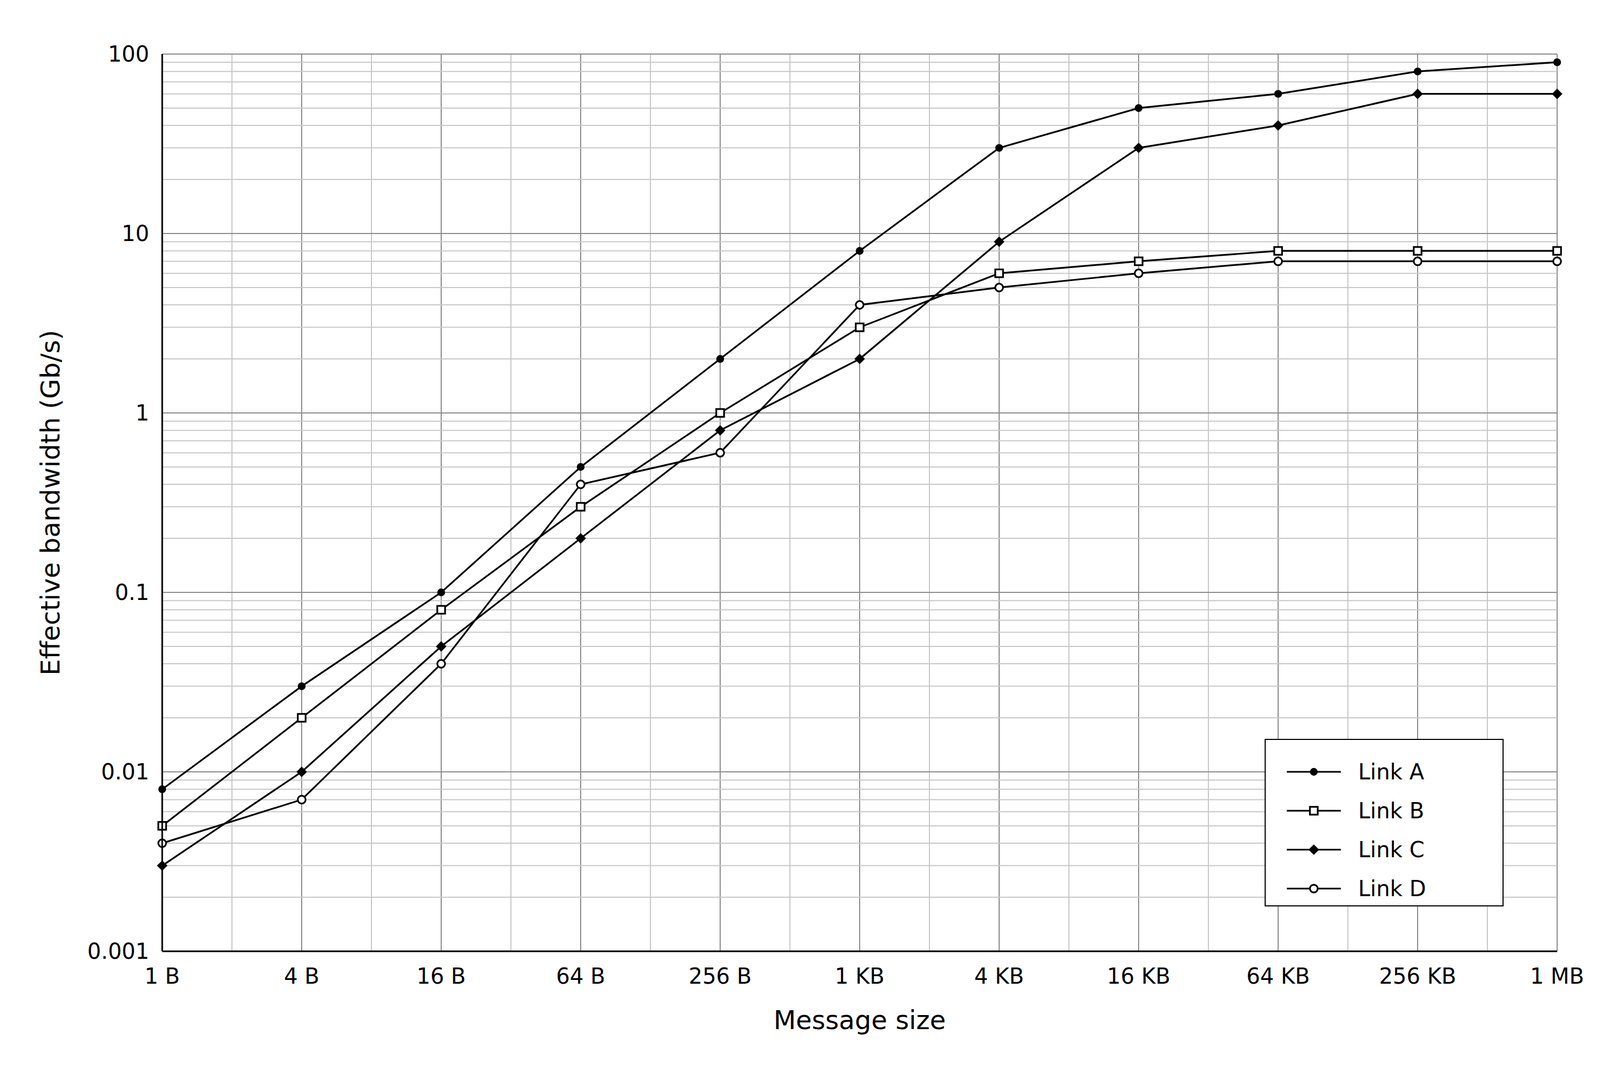
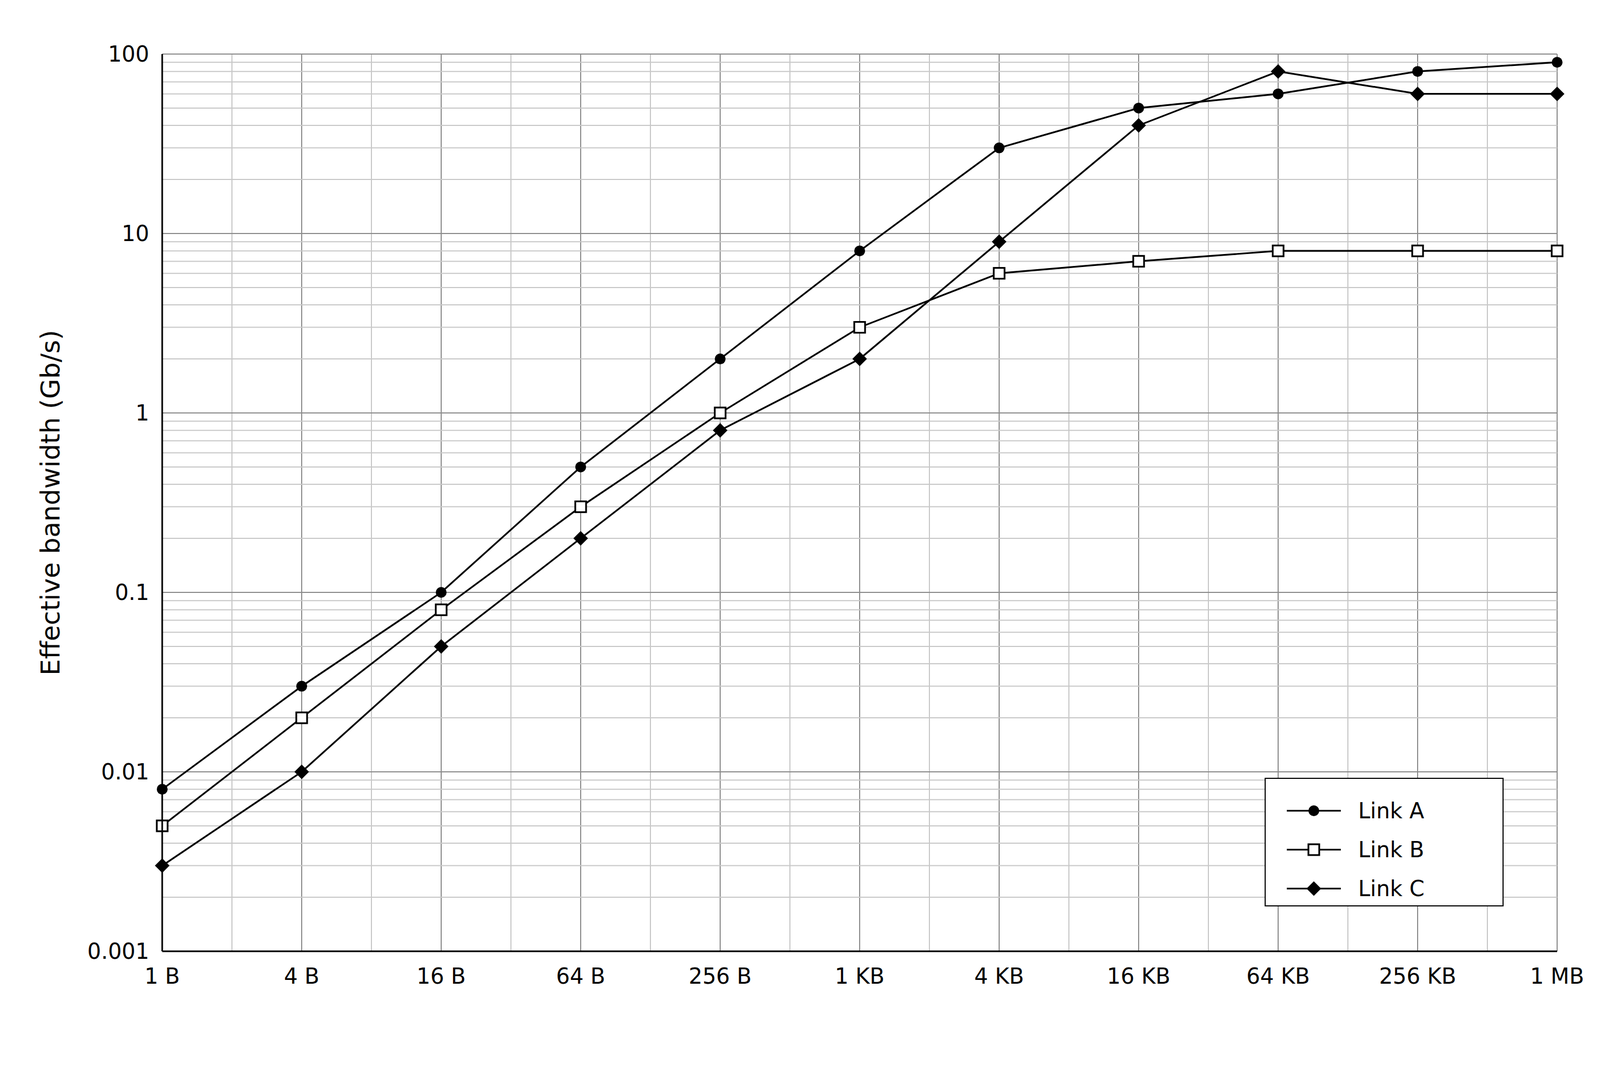
Current attempt = product ratio on the three-link figure (as run on the form); task.md, README, image.png
Claude-Session: https://claude.ai/code/session_018yCjiPTBxjoeQpEJrFdhZF

diff --git a/task.md b/task.md
@@ -1,20 +1,18 @@
-# Current attempt: 5 (four links, ratio of the largest 80 percent message size to the smallest)
+# Attempt 5: product of the two ratios (A/B) x (C/B), nine critical readings
 
-Status: NOT YET RUN.
+Status: RUN, PASS. Both models wrong (Block 1: 3.29, Block 2: 15.0). Log in feedback/006.md. Form filled to the submit button, not submitted. Figure unchanged since attempt 3. Prompt is attempt 4's
+hand-rewritten wording with only the second paragraph changed. GTFA 69.5.
 
-Instructions for the extension run:
+Why: attempt 4 (ratio A/B, six readings) was run twice on this figure. Run 1 (feedback/004.md): both
+models wrong. Run 2 with the humanised wording (feedback/005.md): Block 1 correct, Block 2 wrong. The
+wording is not the lever; each model misreads about one packed-band marker per run, so the number of
+critical readings is. Nine readings, seven in the packed bands, and a product that squares link B's
+slips: every single-marker slip in the table below moves the answer by at least 5 percent.
 
-1. Replace image.png on the form with this image.png. It has four links now.
-2. Replace the prompt on the form with the prompt under "## Step 4. Prompt", exactly.
-3. Wait for both blocks, log them as feedback/006.md in the usual layout. Both must be wrong. If
-   either is right, stop and report.
-4. Steps 7 to 11 will be written after both blocks fail. Do not press submit.
-
-Why attempt 5 exists: attempt 4 (archive/attempt-4.md) ran twice on the same figure and question.
-First run both models wrong, rerun with the reworded prompt one model right. Six critical readings
-give about even odds per run. This attempt keeps the question type, keeps links A and B unchanged,
-and adds a fourth link and a ranking, so the answer needs every link worked out and the readings
-that decide it go from six to ten.
+Attempts 1 to 3 were each solved by exactly one model (feedback/001 to 003). A four-link variant
+(largest to smallest 80 percent size, GTFA 21.6) was prepared in parallel and not run; it is in
+archive/attempt-5-four-links.md, with its figure generator values in that file. This attempt is the
+one on the Handshake form.
 
 | Field | Value |
 |---|---|
@@ -25,17 +23,29 @@ that decide it go from six to ten.
 | Reference material | N/A |
 | Publication venue | N/A |
 | Reference licence | N/A |
-| Image | image.png |
+| Image | image.png (unchanged from attempt 3) |
 
 ---
 
 ## Step 4. Prompt
 
-Image 1 is a log-log plot showing the effective bandwidth of four interconnect links, measured using a ping-pong microbenchmark, as a function of message size. The name of each link is indicated in the legend. Each measured data point is marked, and markers for the same link are connected by straight lines.
+Attempt 5, run on 2026-09-17. Second paragraph is the only change from the attempt 4 rewrite.
 
-Calculate the ratio of the largest "$80\%$ message size" among the four links to the smallest "$80\%$ message size" among them. Here, a link's "$80\%$ message size" is defined as the minimum message size at which the link achieves exactly $80\%$ of its asymptotic bandwidth.
+Image 1 is a log-log plot showing the effective bandwidth of three interconnect links, measured using a ping-pong microbenchmark, as a function of message size. The name of each link is indicated in the legend. Each measured data point is marked, and markers for the same link are connected by straight lines.
+
+Calculate two ratios: the ratio of the "$80\%$ message size" of Link A to the "$80\%$ message size" of Link B, and the ratio of the "$80\%$ message size" of Link C to the "$80\%$ message size" of Link B. Report the product of these two ratios. Here, a link's "$80\%$ message size" is defined as the minimum message size at which the link achieves exactly $80\%$ of its asymptotic bandwidth.
 
 Follow these rules: A link's asymptotic bandwidth is defined as the bandwidth observed at the largest message size shown on the graph. Since every marker is located at the intersection of two grid lines, the values at these intersections are to be read and treated as exact. Because the curve between two adjacent markers appears as a straight line segment on the logarithmic axes of the plot, perform linear interpolation based on the logarithms of the message size and the bandwidth. The message size on the horizontal axis doubles with each grid line crossed, and $1 \, \text{KB}$ is calculated as $1024 \, \text{B}$.
+
+The answer is a dimensionless ratio. Report your final answer as a 3 significant figure number without units. Any intermediate calculations should be carried out to 6 significant figures.
+
+### Attempt 4 prompt, hand-rewritten, run on 2026-09-17 (feedback/005.md)
+
+Image 1 is a log-log plot of the effective bandwidth of three interconnect links against message size, measured with a ping-pong microbenchmark. The links are named in the legend. Each measured point is drawn as a marker, and the markers of one link are joined by straight segments.
+
+Find the ratio of the $80$ percent message size of link A to the $80$ percent message size of link B. The $80$ percent message size of a link is the smallest message size at which the link delivers exactly $80$ percent of its asymptotic bandwidth.
+
+Use the following conventions. The asymptotic bandwidth of a link is its bandwidth at the largest message size on the plot. Every marker sits on a crossing of two gridlines, so take the reading of each marker at that crossing and treat the reading as exact. Between two neighbouring markers the curve is the straight segment drawn on the logarithmic axes of the figure, so interpolate linearly in the logarithm of message size and in the logarithm of bandwidth. Message sizes on the horizontal axis double from one gridline to the next, and $1 \, \text{KB}$ is $1024 \, \text{B}$.
 
 The answer is a dimensionless ratio. Report your final answer as a 3 significant figure number without units. Any intermediate calculations should be carried out to 6 significant figures.
 
@@ -43,7 +53,7 @@ The answer is a dimensionless ratio. Report your final answer as a 3 significant
 
 ## Step 6. GTFA
 
-21.6
+69.5
 
 ---
 
@@ -64,67 +74,167 @@ project's mandated boilerplate.
 
 ## Ground truth
 
-Four 80 percent sizes, then the largest over the smallest.
+Nine readings on three curves, plus the legend, plus telling link A's filled circles from link C's
+filled diamonds where the two cross.
 
-| link | plateau | target | bracket | t | 80 percent size |
-|---|---|---|---|---|---|
-| A | 90 | 72 | 64 KB (60) to 256 KB (80) | 0.633761 | 154.078 KB |
-| B | 8 | 6.4 | 4 KB (6) to 16 KB (7) | 0.418672 | 7.14703 KB |
-| C | 60 | 48 | 64 KB (40) to 256 KB (60) | 0.449660 | 119.372 KB |
-| D | 7 | 5.6 | 4 KB (5) to 16 KB (6) | 0.621488 | 9.46872 KB |
+| reading | value |
+|---|---|
+| link A at 1 MB, the asymptotic bandwidth | 90 Gb/s |
+| link A at 64 KB | 60 Gb/s |
+| link A at 256 KB | 80 Gb/s |
+| link B at 1 MB, the asymptotic bandwidth | 8 Gb/s |
+| link B at 4 KB | 6 Gb/s |
+| link B at 16 KB | 7 Gb/s |
+| link C at 1 MB, the asymptotic bandwidth | 60 Gb/s (not the 80 peak at 64 KB) |
+| link C at 16 KB | 40 Gb/s |
+| link C at 64 KB | 80 Gb/s |
 
-Largest is A, smallest is B. Ratio = 154.078 / 7.14703 = 21.5584, so 21.6. Same value as attempt 4
-by construction: links A and B are unchanged, and the model has to establish that A and B are the
-extremes by working out C and D as well.
+Link A: 80 percent of 90 is 72, between 64 KB (60) and 256 KB (80).
+t = ln(72/60) / ln(80/60) = 0.182322 / 0.287682 = 0.633761; size = 64 x 4^t = 154.078 KB.
+Link B: 80 percent of 8 is 6.4, between 4 KB (6) and 16 KB (7).
+t = ln(6.4/6) / ln(7/6) = 0.0645385 / 0.154151 = 0.418672; size = 4 x 4^t = 7.14703 KB.
+Link C: 80 percent of 60 is 48, between 16 KB (40) and 64 KB (80). C reaches 48 once, on the way up,
+and stays above it afterwards (80, 60, 60).
+t = ln(48/40) / ln(80/40) = 0.182322 / 0.693147 = 0.263034; size = 16 x 4^t = 16 x 1.44000 = 23.0400 KB.
+A/B = 154.078 / 7.14703 = 21.5584. C/B = 23.0400 / 7.14703 = 3.22372.
+Product = 21.5584 x 3.22372 = 69.4982, so 69.5.
 
 Axes. Horizontal: message size, 1 B to 1 MB, one vertical gridline per power of two, labels at
 every power of four. Vertical: bandwidth in Gb/s, 0.001 to 100, only the decades labelled, minor
-gridlines at 2 to 9 in each decade. Markers at every power of four only, radius 3.6 px at 1x.
+gridlines at 2 to 9 in each decade. Markers at every power of four only.
 
 | link | marker | 1 B | 4 B | 16 B | 64 B | 256 B | 1 KB | 4 KB | 16 KB | 64 KB | 256 KB | 1 MB |
 |---|---|---|---|---|---|---|---|---|---|---|---|---|
 | A | filled circle | 0.008 | 0.03 | 0.1 | 0.5 | 2 | 8 | 30 | 50 | 60 | 80 | 90 |
 | B | open square | 0.005 | 0.02 | 0.08 | 0.3 | 1 | 3 | 6 | 7 | 8 | 8 | 8 |
-| C | filled diamond | 0.003 | 0.01 | 0.05 | 0.2 | 0.8 | 2 | 9 | 30 | 40 | 60 | 60 |
-| D | open circle | 0.004 | 0.007 | 0.04 | 0.4 | 0.6 | 4 | 5 | 6 | 7 | 7 | 7 |
+| C | filled diamond | 0.003 | 0.01 | 0.05 | 0.2 | 0.8 | 2 | 9 | 40 | 80 | 60 | 60 |
 
 Image is 3000 x 2000, rendered from SVG at 2x. Every marker centre was matched by script to the
-gridline crossing for its value, all 44 within one pixel (tools/decode.py). No two links share a
-crossing, and the closest pair of markers in one column is one minor line apart at the 7 to 8
-spacing, where the marker edges are clear of each other.
+gridline crossing for its value, all 33 within one pixel (tools/decode.py, PYTHONSAFEPATH=1).
 
 ## Where the levers are
 
-1. Ten readings decide the answer instead of six. A (60, 80, 90) and B (6, 7, 8) as before, plus
-   C's plateau at 60 and its 64 KB and 256 KB markers, and D's 4 KB, 16 KB and plateau markers.
-   Every one of those slips by one minor line changes the answer by 6 percent or more.
-2. B and D run parallel one minor line apart from 4 KB to 1 MB in the packed 5 to 8 band, open
-   square over open circle. B's markers were misread in three of the four model runs on attempt 4.
-3. C's plateau at 60 sits in the top decade next to A's 60 at 64 KB. Reading it as 70 makes C the
-   largest link and moves the answer 31 percent.
-4. The ranking is not visible by eye: C and A are both in the 100 to 160 KB range, B and D both
-   in the 7 to 10 KB range.
+1. Nine critical readings. Each model has misread about one packed-band marker per run across five
+   runs; a clean run on nine is rare for either.
+2. Link B's three readings (6, 7, 8) in the 6 to 8 band of the 1 to 10 decade, and B enters the
+   answer squared, so a one-line slip on B moves the product by 58 to 320 percent.
+3. Link A's three readings (60, 80, 90) in the 60 to 90 band with link C crossing through both
+   bracketing markers.
+4. Link C's plateau is 60 at 1 MB, but its peak is 80 at 64 KB. Taking the peak as the asymptote
+   gives 124. Reading C's 64 KB marker from link A's circle (60) gives 90.
+5. Habit trap: half-power sizes by reflex give 46.6.
+6. Linear interpolation lands at 59.2.
 
 ## Wrong readings and where they land
 
-Every single-marker slip to a neighbouring minor line was computed (tools/numbers.py). None lands
-inside 2 percent. The ones that change the answer:
-
 | slip | answer | off by |
 |---|---|---|
-| A 64 KB read as 50 or 70 | 26.3 or 16.7 | +22 or -23 percent |
-| A 256 KB read as 70 or 90 | 41.8 or 16.7 | +94 or -23 percent |
-| A plateau read as 80 or 100 | 16.7 or 35.8 | -23 or +66 percent |
-| B 4 KB read as 5 or 7 | 16.3 or 44.6 | -25 or +107 percent |
-| B 16 KB read as 6 or 8 | 16.3 or 28.2 | -25 or +31 percent |
-| B plateau read as 7 or 9 | 44.2 or 16.3 | +105 or -25 percent |
-| C 64 KB read as 30 | 22.9 | +6.3 percent |
-| C 256 KB read as 50 | 27.8 | +29 percent |
-| C plateau read as 70 | 28.3 | +31 percent |
-| D 4 KB read as 6 | 48.8 | +126 percent |
-| D 16 KB read as 7 | 24.1 | +12 percent |
-| D plateau read as 6 | 49.6 | +130 percent |
-| linear interpolation instead of log-log, a method error | 20.4 | -5.5 percent |
+| A: 64 KB marker taken from link C (80) | 21.2 | -70 percent |
+| A: asymptotic bandwidth read as 100 | 115 | +66 percent |
+| A: 64 KB marker read as 50 | 84.6 | +22 percent |
+| A: 64 KB marker read as 70 | 38.7 | -44 percent |
+| B: asymptotic bandwidth read as 9 | 7.73 | -89 percent |
+| B: asymptotic bandwidth read as 7 | 292 | +321 percent |
+| B: 4 KB marker read as 5 | 29.0 | -58 percent |
+| B: 16 KB marker read as 6 | 7.44 | -89 percent |
+| B: 16 KB marker read as 8 | 119 | +71 percent |
+| C: asymptotic bandwidth read as 70 | 94.6 | +36 percent |
+| C: asymptotic bandwidth read as 50 | 48.3 | -31 percent |
+| C: asymptotic taken as the 80 peak | 124 | +78 percent |
+| C: 16 KB marker read as 50 | 46.7 | -33 percent |
+| C: 16 KB marker read as 30 | 93.8 | +35 percent |
+| C: 64 KB marker taken from link A (60) | 90.0 | +30 percent |
+| C: 64 KB marker read as 90 | 65.9 | -5.2 percent |
+| linear interpolation on all links, a method error | 59.2 | -15 percent |
+| half-power sizes by habit | 46.6 | -33 percent |
 
-Slips on C and D in the other direction leave the ranking and the answer unchanged; they are listed
-in the numbers.py output.
+---
+
+## Step 7. Image description
+
+Image 1 is a self-authored single panel figure on a plain white background at $3000 \times 2000$ pixels, drawn in black and grey. It is a schematic data figure, not a photograph, so there is no modality, magnification or staining to report.
+
+The panel is a log-log line plot. The horizontal axis is message size from $1 \, \text{B}$ to $1 \, \text{MB}$ with one vertical gridline per power of two and labels at every power of four: $1 \, \text{B}$, $4 \, \text{B}$, $16 \, \text{B}$, $64 \, \text{B}$, $256 \, \text{B}$, $1 \, \text{KB}$, $4 \, \text{KB}$, $16 \, \text{KB}$, $64 \, \text{KB}$, $256 \, \text{KB}$ and $1 \, \text{MB}$. The vertical axis is effective bandwidth in $\text{Gb/s}$ on a logarithmic scale from $0.001$ to $100$, with only the decades labelled and light minor gridlines at $2$ to $9$ inside each decade. A legend box in the lower right names three series: link A with filled circles, link B with open squares and link C with filled diamonds. Each series has eleven markers, one at every labelled message size, joined by straight black segments.
+
+Reading each marker at its gridline crossing, from $1 \, \text{B}$ to $1 \, \text{MB}$, link A is $0.008$, $0.03$, $0.1$, $0.5$, $2$, $8$, $30$, $50$, $60$, $80$ and $90 \, \text{Gb/s}$, rising throughout and flattening in the top decade. Link B is $0.005$, $0.02$, $0.08$, $0.3$, $1$, $3$, $6$, $7$, $8$, $8$ and $8 \, \text{Gb/s}$, flat from $64 \, \text{KB}$ onward. Link C is $0.003$, $0.01$, $0.05$, $0.2$, $0.8$, $2$, $9$, $40$, $80$, $60$ and $60 \, \text{Gb/s}$, so it crosses link A between $16 \, \text{KB}$ and $64 \, \text{KB}$, sits above it at $64 \, \text{KB}$, crosses back below it between $64 \, \text{KB}$ and $256 \, \text{KB}$ and stays flat at $60$ from $256 \, \text{KB}$.
+
+Every marker sits on a crossing of two gridlines. No value is printed as text on the figure. Line weights are uniform, text is crisp at full resolution, and there are no arrows, highlights, callouts, colour coding or annotations. The minor gridlines in the top decade and in the $1$ to $10$ decade are closely spaced, so the figure has to be read at full resolution rather than from a downscaled view.
+
+---
+
+## Step 8. Model failure mode
+
+Select: figure-based quantitative estimation error (marker placed on the wrong minor gridline of a logarithmic axis). Both responses marked as failing; Response 1 justified on the form.
+
+Justification, Response 1:
+
+> Response 1 answered $3.29$ against a golden answer of $69.5$. Its method was right throughout: it took each link's asymptotic bandwidth at $1 \, \text{MB}$, formed $0.8$ of it, bracketed that level between adjacent markers, interpolated linearly in the logarithms with the factor of $4$ between neighbouring markers, and multiplied the two ratios. Every error is a marker placed on the wrong minor gridline of the logarithmic bandwidth axis. Link A: plateau $90$ and $256 \, \text{KB}$ marker $80$ read correctly, but the $64 \, \text{KB}$ filled circle read as $70$ when it sits on the $60$ gridline, giving $x_A = 85.7424 \, \text{KB}$ instead of $154.078$. Link B: plateau $8$ and target $6.4$ right, but the bracket placed one marker to the right, $(16 \, \text{KB}, 6)$ to $(64 \, \text{KB}, 7)$, so the $16 \, \text{KB}$ and $64 \, \text{KB}$ open squares were both read one line low; $x_B = 28.5881 \, \text{KB}$, four times the correct $7.14703$, and $x_B$ enters squared. Link C: the $1 \, \text{MB}$ diamond read as $70$ when it sits on $60$, target $56$ instead of $48$, $x_C = 31.36 \, \text{KB}$ instead of $23.04$. Product $(85.7424 \times 31.36) / 28.5881^2 = 3.29004$, $95$ percent below $69.4982$.
+
+Justification, Response 2:
+
+> Response 2 answered $15.0$. Method right, six markers misread. Link A plateau read as $100$ (the labelled decade line above the $90$ marker), and its $64 \, \text{KB}$ value taken as $80$, which is link C's filled diamond at that size, so the target $80$ was declared to land exactly on the $64 \, \text{KB}$ marker. Link B $4 \, \text{KB}$ read as $5$ (is $6$). Link C's asymptote taken as $80$, its $64 \, \text{KB}$ peak, instead of the $60$ at $1 \, \text{MB}$ that the prompt defines; C's $16 \, \text{KB}$ read as $50$ (is $40$) and $64 \, \text{KB}$ as $90$ (is $80$). Product $14.9833$, $78$ percent below the GTFA.
+
+---
+
+## Step 9. Step-by-step solution
+
+Step 1. Identify the series from the legend. Link A is the series with filled circles, link B the series with open squares, link C the series with filled diamonds. Link C's curve passes through the region where link A has to be read, so each marker is checked for its shape before it is read.
+
+Step 2. Read the asymptotic bandwidth of each link at the rightmost marker, $1 \, \text{MB}$. The filled circle sits on the minor gridline one below the labelled $100$, so link A has $B_A = 90 \, \text{Gb/s}$. The open square sits on the gridline two below the labelled $10$, so link B has $B_B = 8 \, \text{Gb/s}$. The filled diamond sits on the gridline four below the labelled $100$, so link C has $B_C = 60 \, \text{Gb/s}$; its earlier peak of $80$ at $64 \, \text{KB}$ is not the asymptotic value, because the prompt defines that value at the largest message size.
+
+Step 3. Form the three target levels:
+$$0.8 \times 90 = 72.0000 \, \text{Gb/s}, \qquad 0.8 \times 8 = 6.40000 \, \text{Gb/s}, \qquad 0.8 \times 60 = 48.0000 \, \text{Gb/s}$$
+
+Step 4. Locate the bracketing markers of link A. The filled circles at $64 \, \text{KB}$ and $256 \, \text{KB}$ sit on the gridlines at $60$ and $80 \, \text{Gb/s}$, and $72$ lies between them. At $64 \, \text{KB}$ the filled diamond of link C sits two gridlines higher at $80$, and at $256 \, \text{KB}$ it sits two gridlines lower at $60$; both are ignored here.
+
+Step 5. Locate the bracketing markers of link B. The open squares at $4 \, \text{KB}$ and $16 \, \text{KB}$ sit on the gridlines at $6$ and $7 \, \text{Gb/s}$, and $6.4$ lies between them. The $4 \, \text{KB}$ marker is the last that lies below $6.4$ and the $16 \, \text{KB}$ marker is the first that reaches or exceeds it, so the smallest size at which the level is met lies on the segment between them and is found by interpolation in Step 9.
+
+Step 6. Locate the bracketing markers of link C. The filled diamonds at $16 \, \text{KB}$ and $64 \, \text{KB}$ sit on the gridlines at $40$ and $80 \, \text{Gb/s}$, and $48$ lies between them. Link C is below $48$ at every smaller size and stays at or above $60$ from $64 \, \text{KB}$ onward, so this is the only crossing and the smallest size at which the level is met.
+
+Step 7. Apply the interpolation rule stated in the prompt. On log-log axes the segment between $(x_0, y_0)$ and $(x_1, y_1)$ satisfies
+$$\frac{\ln (y / y_0)}{\ln (y_1 / y_0)} = \frac{\ln (x / x_0)}{\ln (x_1 / x_0)}$$
+so the size at level $y$ is
+$$x = x_0 \left( \frac{x_1}{x_0} \right)^{t}, \qquad t = \frac{\ln (y / y_0)}{\ln (y_1 / y_0)}$$
+Each pair of neighbouring markers is a factor of $4$ apart in size, so $x_1 / x_0 = 4$ in all three cases.
+
+Step 8. Link A:
+$$t_A = \frac{\ln (72 / 60)}{\ln (80 / 60)} = \frac{0.182322}{0.287682} = 0.633761$$
+$$x_A = 64 \times 4^{0.633761} = 64 \times 2.40748 = 154.078 \, \text{KB}$$
+
+Step 9. Link B:
+$$t_B = \frac{\ln (6.4 / 6)}{\ln (7 / 6)} = \frac{0.0645385}{0.154151} = 0.418672$$
+$$x_B = 4 \times 4^{0.418672} = 4 \times 1.78676 = 7.14703 \, \text{KB}$$
+
+Step 10. Link C:
+$$t_C = \frac{\ln (48 / 40)}{\ln (80 / 40)} = \frac{0.182322}{0.693147} = 0.263034$$
+$$x_C = 16 \times 4^{0.263034} = 16 \times 1.44000 = 23.0400 \, \text{KB}$$
+
+Step 11. Form the two ratios:
+$$\frac{x_A}{x_B} = \frac{154.078}{7.14703} = 21.5584, \qquad \frac{x_C}{x_B} = \frac{23.0400}{7.14703} = 3.22372$$
+
+Step 12. Multiply them:
+$$21.5584 \times 3.22372 = 69.4982$$
+
+Step 13. Rounded to three significant figures, the product is $69.5$.
+
+Final answer: $69.5$
+
+---
+
+## Step 10. Distractors
+
+Distractors (incorrect answers only). Note that in testing we provided the model all potential answers, including the GTFA.
+
+| Value | Error it encodes |
+|---|---|
+| $3.29$ | Link A $64 \, \text{KB}$ read as $70$, link B bracket shifted one marker right, link C plateau read as $70$. This was Response 1. |
+| $15.0$ | Link A plateau read as $100$ and its $64 \, \text{KB}$ value taken from link C, link B $4 \, \text{KB}$ read as $5$, link C asymptote taken as its $80$ peak. This was Response 2. |
+| $59.2$ | Interpolates linearly in bandwidth and size instead of in their logarithms, against the rule stated in the prompt. |
+| $124$ | Takes link C's asymptotic bandwidth as its $80$ peak at $64 \, \text{KB}$ instead of the $60$ at $1 \, \text{MB}$. |
+| $84.6$ | Reads the $64 \, \text{KB}$ marker of link A as $50 \, \text{Gb/s}$, one minor gridline low in the top decade. |
+
+---
+
+## Step 11. Answer format and tolerance
+
+Decimal. $3$ significant figures. Exact match on $69.5$.

diff --git a/README.md b/README.md
@@ -3,14 +3,15 @@
 Lumiere task 2, Computer Systems. `task.md` and `image.png` on `main` are the current attempt, in
 the layout of `lumiere-cs-task`. Model logs go to `feedback/`, questions to `ASKS.md`.
 
-Attempt 5 (current, not yet run): same figure family with a fourth link, question is the ratio of
-the largest 80 percent message size among the four links to the smallest, GTFA 21.6. Ten readings
-decide the answer.
+Attempt 5 (current, RUN, PASS): three-link figure from attempt 3, question is the product of the ratio of
+link A's 80 percent message size to link B's and the ratio of link C's to link B's, GTFA 69.5. Nine
+readings decide the answer. Both models wrong (3.29 and 15.0), `feedback/006.md`. Form filled on
+Handshake to the submit button.
 
 Attempt 4 (archive/attempt-4.md): three links, ratio of link A's 80 percent size to link B's, GTFA
 21.6. First run both models wrong (`feedback/004.md`), rerun with the hand-reworded prompt one model
-right (`feedback/005.md`), so it is not submittable. Its package steps 7 to 11 are in the archive
-file and carry over to attempt 5 with the description extended to four links.
+right (`feedback/005.md`). A four-link variant prepared for attempt 5 and not run is in
+archive/attempt-5-four-links.md.
 
 Earlier attempts, each solved by exactly one model: 1 (half-power point of link A, 8.73,
 `feedback/001.md`), 2 (80 percent point of link A with readings in the 60 to 90 band, 85.7,
